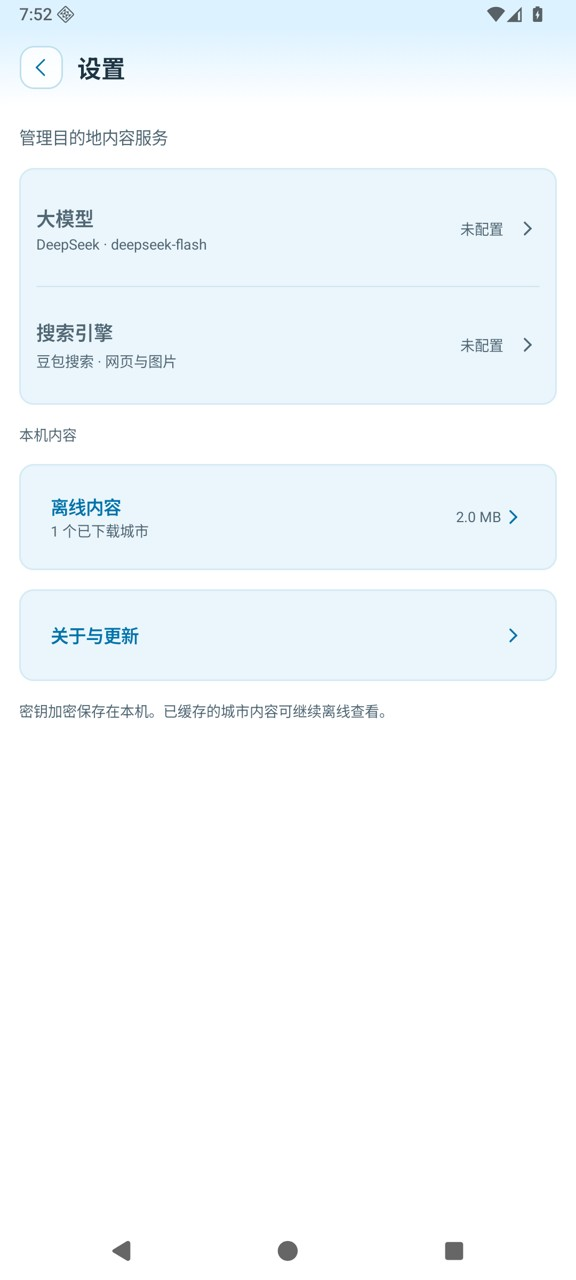
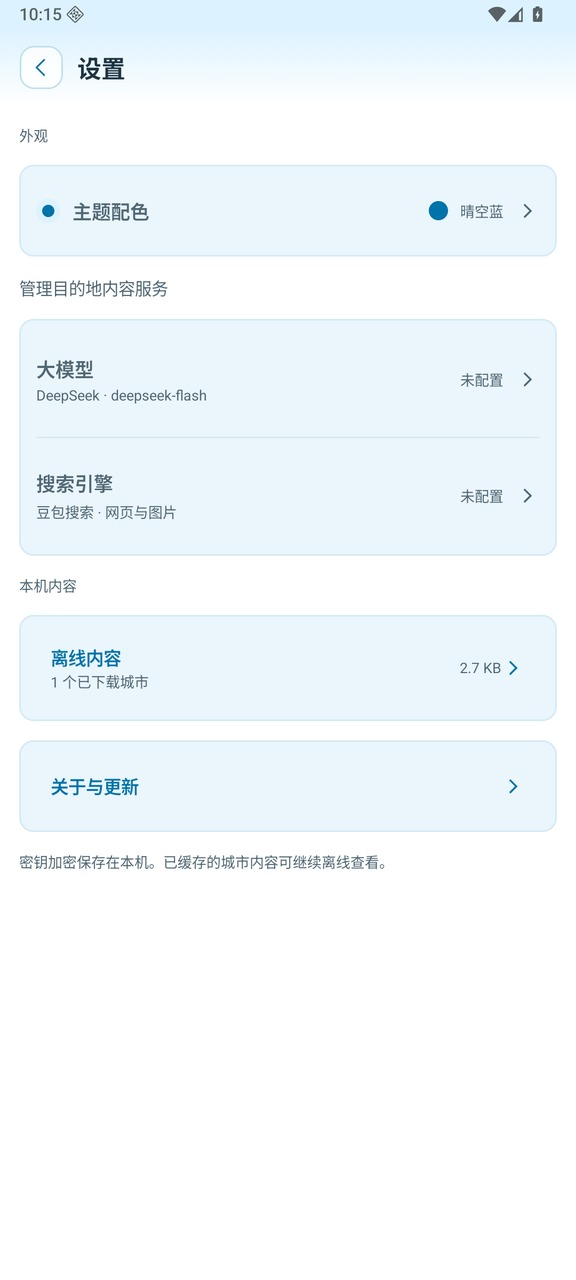
docs: 刷新 v1.0 产品介绍与全套界面截图

diff --git a/docs/images/readme/README.md b/docs/images/readme/README.md
@@ -2,42 +2,48 @@
 
 ## 版本与采集
 
-- 10 张图片均于 2026-09-23 重新采集，来自 v0.9.0 / versionCode 14 的实际 Compose 界面；业务源码与公开 v0.9.0 一致，采集基线为 `097d9d9`，使用本地 Debug 构建以运行离线界面用例。
-- 使用独立 Android API 36 模拟器，1080 × 2400、标准字号。城市结果与车次页为 420 dpi，其余页面为 360 dpi，以完整显示主要操作。
-- 只等比例缩小并压缩为 JPEG，最长边 1280 px；没有改写图片中的文字、拼接界面或替换页面元素。可在项目首页点击图片查看大图。
-- 日期、车次、余票和收藏是离线演示数据，不是实时可购车票或用户个人数据。不同页面使用独立演示场景，不代表同一次查询。
-- 邯郸介绍、路线和照片来自电脑端豆包搜索、DeepSeek 整理的成功样本，再导入模拟器缓存采集界面。没有通过手机完整生成流程采集，也没有操作个人手机；这些图片不能作为真机生成成功的验收证据。
-- 设置页展示未配置状态，不输入或展示个人服务 Key；已保存内容仍可离线查看。
+- 10 张流程截图、四套主题选择页与首页对比图均于 2026-09-23 重新采集，来自 **v1.0.0 / versionCode 15** 的实际 Android Compose 界面。
+- 采集基线为 `4430a49`；应用源码与公开 `v1.0.0` 标签 `2d16990` 一致。使用本地 Debug 构建运行临时离线采集程序，运行时读取并断言版本为 `1.0.0 / 15`，没有改动生产界面。
+- 使用独立 Android API 36 模拟器 `train_trip_v10_theme`，1080 × 2400、标准字号。结果页使用 320 dpi，其余页面使用 360 dpi，以完整展示主要内容和操作。未操作个人手机或其他任务的模拟器。
+- 流程截图只等比例缩小并压缩为 JPEG，尺寸为 576 × 1280；没有改写图片中的文字或替换界面元素。主题对比图将四张完整截图等比例缩小后横向排列，不拼接不同页面的局部内容。
+- 日期、车次、余票、收藏与离线缓存使用演示数据，不是实时可购车票或用户个人数据。首页选择 5 座城市；结果页独立演示天津、济南两城的查询完成状态。
+- 天津景点、美食和玩法使用应用内置资料；没有现场调用搜索或模型生成内容。离线管理中的天津条目是内置文字另存的采集样本，空间数值由实际缓存文件计算。
+- 设置页展示未配置服务状态和「主题配色」入口；采集过程未输入或展示个人 Key。四套主题截图均来自同一 v1.0.0 构建。
 
 ## 页面索引
 
-| 图片 | 展示内容与采集方式 |
+| 图片 | 展示内容 |
 | --- | --- |
-| [home.jpg](home.jpg) | 首页：日期范围、多选时段、席别、人数、3 小时车程和查询入口；实际主界面加载演示筛选条件 |
-| [results.jpg](results.jpg) | 按省份分组的有票城市、车次数、最快车程及介绍入口；现有 `BlueWhiteUiTest.resultsAndTrainSelectionHaveClearSeparateActions` 离线用例 |
-| [trains.jpg](trains.jpg) | 北京到天津的演示车次、发到时间、席别余票与打开 12306 入口；同一用例的未标记状态 |
-| [destinations.jpg](destinations.jpg) | 目的地选择器的「想去」分组，勾选 5 座演示收藏城市 |
-| [wishlist.jpg](wishlist.jpg) | 想去清单的固定「全部」入口，5 城 / 3 省级地区，显示已保存、未下载与内置介绍状态 |
-| [guide.jpg](guide.jpg) | 邯郸景点页：博物馆独立相册、图片来源、原文入口和建议停留时长；下方露出丛台公园卡片 |
-| [food.jpg](food.jpg) | 邯郸美食页：南沿村拉面文字及郭八火烧菜品参考图，不为无图条目补造图片 |
-| [plans.jpg](plans.jpg) | 导入成功样本后的模拟器演示：邯郸一日路线、一日/两日切换、景点顺序和攻略原文；不代表个人手机已生成路线 |
-| [settings.jpg](settings.jpg) | DeepSeek、豆包网页与图片搜索、离线内容及关于与更新入口 |
-| [offline.jpg](offline.jpg) | 1 座已保存城市及实际缓存空间，可查看、更新或删除；收藏与配置保留说明 |
+| [home.jpg](home.jpg) | 北京出发，日期范围、多选时段、席别、人数、3 小时车程、5 个目的地及查询入口 |
+| [results.jpg](results.jpg) | 按省份分组的济南、天津演示结果，车次数、最快车程、介绍和车次入口 |
+| [trains.jpg](trains.jpg) | 北京南到天津的演示车次，发到时间、席别余票与打开 12306 入口 |
+| [destinations.jpg](destinations.jpg) | 「想去」分组中勾选天津、济南、青岛、保定、承德，共 5 城 / 3 个省级地区 |
+| [wishlist.jpg](wishlist.jpg) | 固定「全部」入口、按省份分组、最近收藏优先，以及内置介绍与未下载状态 |
+| [guide.jpg](guide.jpg) | 天津景点：五大道、古文化街实景照片与图片来源、建议停留时间 |
+| [food.jpg](food.jpg) | 天津美食：煎饼馃子、十八街麻花、耳朵眼炸糕；没有合适图片时保留文字 |
+| [plans.jpg](plans.jpg) | 天津内置两日玩法，一日/两日切换和逐日安排；内置样例不代表所有可支持天数 |
+| [settings.jpg](settings.jpg) | v1.0 主题配色、DeepSeek、豆包搜索、离线内容及关于与更新入口 |
+| [offline.jpg](offline.jpg) | 1 座文字缓存样本的实际空间、查看更新和删除入口，以及保留收藏与配置的说明 |
+| [主题选择页对比](../v1.0-themes/picker-comparison.jpg) | 晴空蓝、松林绿、暖阳橙、暮山紫的选择状态与预览 |
+| [主题首页对比](../v1.0-themes/home-comparison.jpg) | 同一筛选条件下的四套主题首页 |
 
 ## 图文来源
 
-图片权利归原作者及相关权利人所有，以下为应用中保存的来源页面。豆包图片结果未提供摄影者署名的，不推定来源站点为作者；美食图片只作为菜品参考。
+图片权利归原作者及相关权利人所有。以下均为应用内置资料保存的来源；本次仅重拍界面，未重新检索或核实旅游信息。
 
-| 截图内素材 | 保存的来源 |
+| 截图内素材 | 来源 |
 | --- | --- |
-| 邯郸介绍、美食文字与一日/两日路线 | [什么值得买：两天一夜玩转河北被低估的宝藏小城——邯郸](https://post.smzdm.com/p/anvzzq97) |
-| 邯郸市博物馆照片 | [QQ 空间公开相册](http://user.qzone.qq.com/2202371668/photo/73f0c279-02ee-4a0b-a274-02453a5bc45e/M09*OKv.6UAHjL2B4p6ogzly4Gh.OzsAAA!!/) |
-| 丛台公园照片 | [太平洋摄影部落](http://dp.pconline.com.cn/dphoto/list_3581066.html) |
-| 郭八火烧参考图 | [地方特产介绍页](http://guangzhou.techan.dqccc.com/supermarket/Detail-1376.html) |
-| 天津城市卡片中的古文化街照片 | 摄影胡凌云／天津日报，[天津市文化和旅游局刊载页面](https://whly.tj.gov.cn/tjswlzxw/wlsj/mtjj/202404/t20240419_6605163.html) |
+| 天津古文化街照片与文字资料 | 摄影胡凌云／天津日报，[天津市文化和旅游局刊载页面](https://whly.tj.gov.cn/tjswlzxw/wlsj/mtjj/202404/t20240419_6605163.html) |
+| 天津小吃资料 | [天津文旅：特色小吃与津味生活](https://whly.tj.gov.cn/XWDTYXWZX6562/MTJJ8464/202411/t20241105_6770998.html) |
+| 天津相声文化资料 | [天津东疆：夜津城与相声文化](https://www.dongjiang.gov.cn/contents/110/6232.html) |
+| 济南结果卡片中的大明湖照片 | 济南市园林和林业绿化局刊载，原页面未署名；[大明湖风景名胜区](https://jnly.jinan.gov.cn/col117783/art/2025/art_117783_4779721.html) |
 
-民间来源可能转载或使用 AI 整理；保留原文方便自行判断。截图中的文字、价格和开放信息不代表已独立核实的最新旅游资讯。真实搜索验收范围见[民间攻略检索与邯郸重验](../../verification/2026-09-23-community-search.md)。
+天津内置玩法为随应用提供的编辑建议，使用已保存资料，不宣称是本次模型生成或逐字摘录自单篇攻略。景点开放、交通、演出及预约请以原文和目的地最新公告为准。
 
 ## 检查与回滚
 
-采集用到的现有离线界面用例通过，结果页与车次页文字边界检查通过；10 张图片均完成 OCR、人工视觉检查和链接检查，39 处本地引用有效。GitHub GFM 渲染识别全部 10 张图片，1200px 与 390px 预览均加载完整且无页面横向溢出。原始截图、页面 XML、图片摘要及修改前备份保存在本机 `.verification-private/readme-v0.9/`，不随仓库发布。本次仅更新 README 和截图说明，不修改应用业务或已发布 APK。需要回滚时可反向提交本次文档改动，或从该目录的 `before.tar` 恢复原文档及图片。
+- 临时采集程序完成全部页面，检查可见文字未省略、文字测量未超出边界；结果页另以 320 dpi 补采。
+- 全部 12 个发布图片文件的 SHA-256 均与旧图不同；已进行 OCR、人工视觉检查，48 处本地引用均有效。
+- GitHub GFM 渲染包含 10 张流程图和 1 张主题总览，另一张主题首页对比通过链接打开；1200 px 与 390 px 宽度下均加载全部 11 张内嵌图，页面无横向溢出。
+- 原始 PNG、文字边界校验日志、版本记录、采集脚本与验证结果保存在本机 `.verification-private/readme-v1.0/`，不随仓库发布。临时采集代码不进入应用或文档提交。
+- 修改前 README 位于该目录的 `README.before.md`，原图片和说明位于 `images-before.tar`。可反向提交本次文档变更回滚；已发布 APK 和版本标签不受影响。
